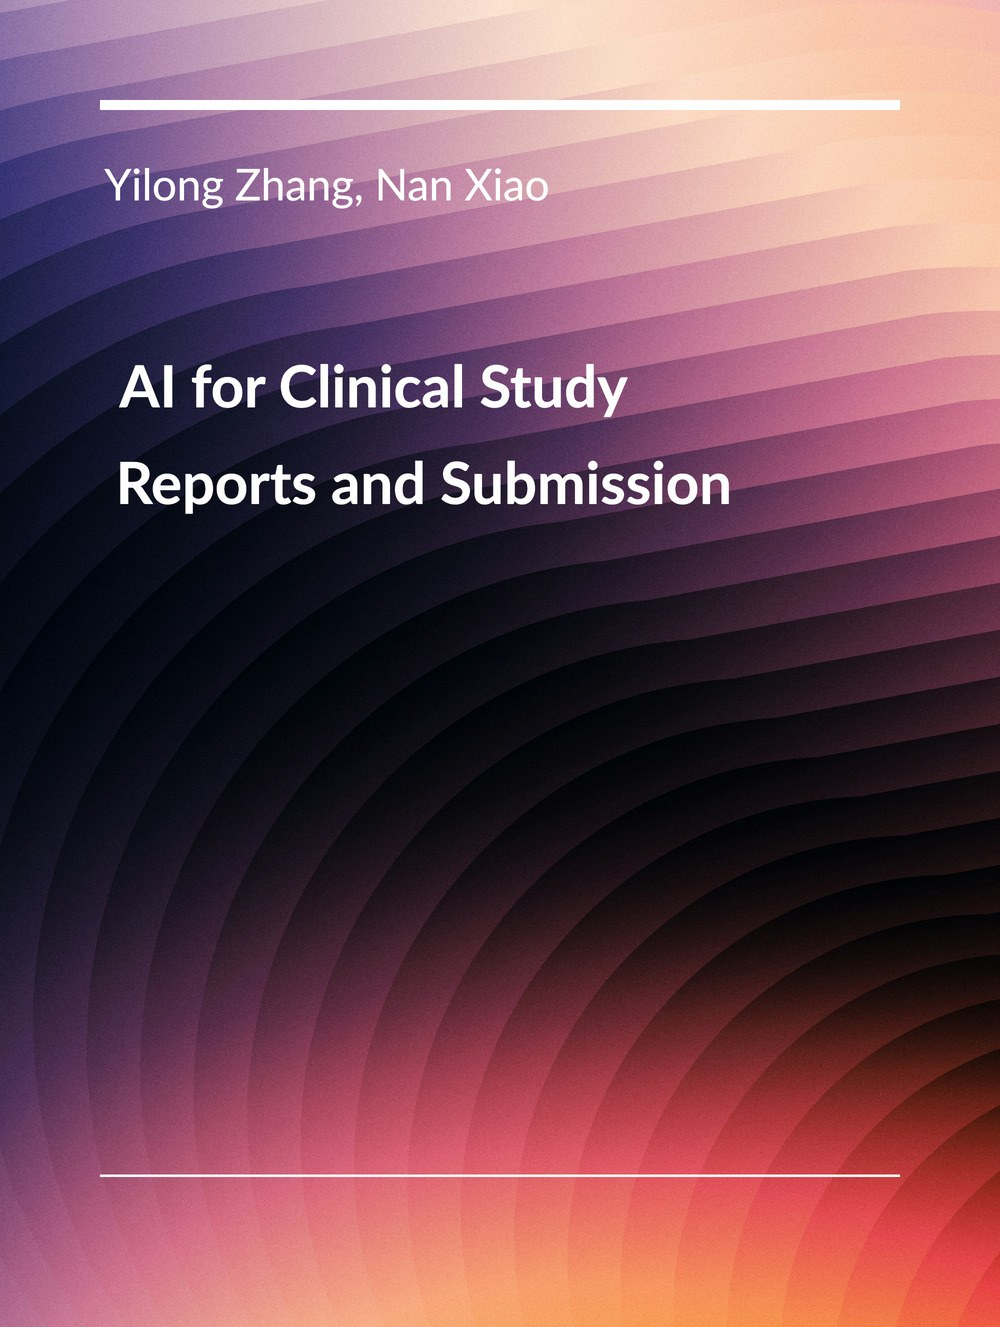
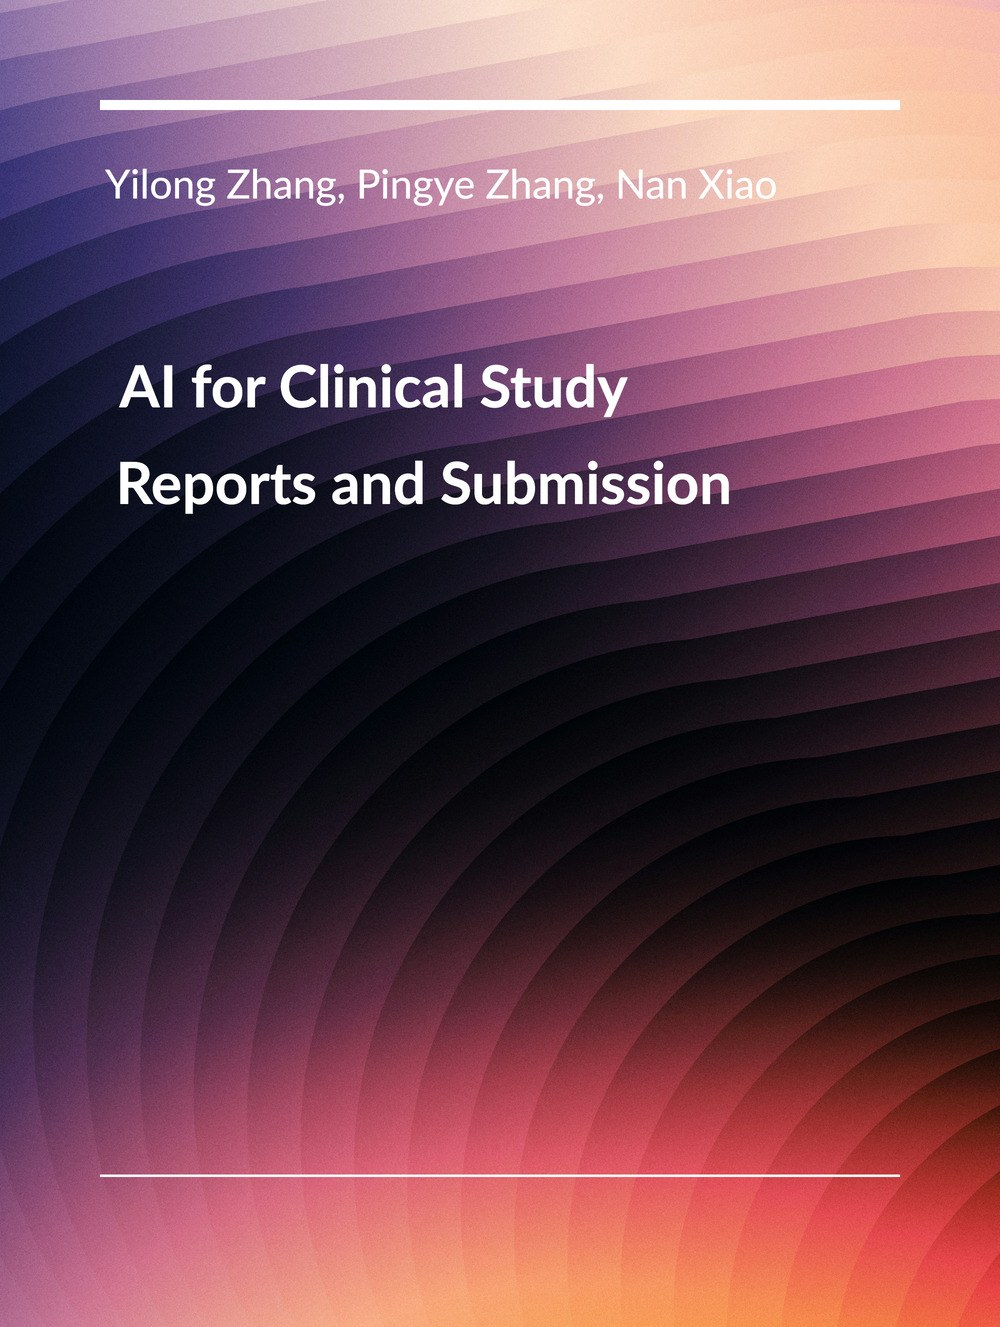
Built site for gh-pages

Changed region(s): [[0.124, 0.1236, 0.775, 0.1545]]

diff --git a/01-preface.html b/01-preface.html
@@ -306,7 +306,7 @@ ul.task-list li input[type="checkbox"] {
 <p>This document is a collaborative effort maintained by a community. As you read through it, you also have the opportunity to contribute and enhance its quality. Your input and involvement play a vital role in shaping the excellence of this document.</p>
 <ul>
 <li><p>Authors: made significant contributions to at least one chapter, constituting the majority of the content.</p>
-<p><a href="https://elong0527.github.io/">Yilong Zhang</a>, <a href="https://nanx.me/">Nan Xiao</a></p></li>
+<p><a href="https://elong0527.github.io/">Yilong Zhang</a>, Pingye Zhang, <a href="https://nanx.me/">Nan Xiao</a></p></li>
 <li><p>Contributors: contributed at least one commit to the source code. The current list is maintained on the <a href="https://github.com/elong0527/ai4csr/graphs/contributors">repository contributor page</a>.</p></li>
 </ul>
 

diff --git a/index.html b/index.html
@@ -7,6 +7,7 @@
 <meta name="viewport" content="width=device-width, initial-scale=1.0, user-scalable=yes">
 
 <meta name="author" content="Yilong Zhang">
+<meta name="author" content="Pingye Zhang">
 <meta name="author" content="Nan Xiao">
 <meta name="description" content="Learn how to design trustworthy AI-first workflows for clinical study reporting and regulatory submission, combining agent-assisted execution, evidence-backed review, and accountable human decisions.">
 
@@ -272,6 +273,7 @@ ul.task-list li input[type="checkbox"] {
     <div class="quarto-title-meta-heading">Authors</div>
     <div class="quarto-title-meta-contents">
              <p>Yilong Zhang </p>
+             <p>Pingye Zhang </p>
              <p>Nan Xiao </p>
           </div>
   </div>
